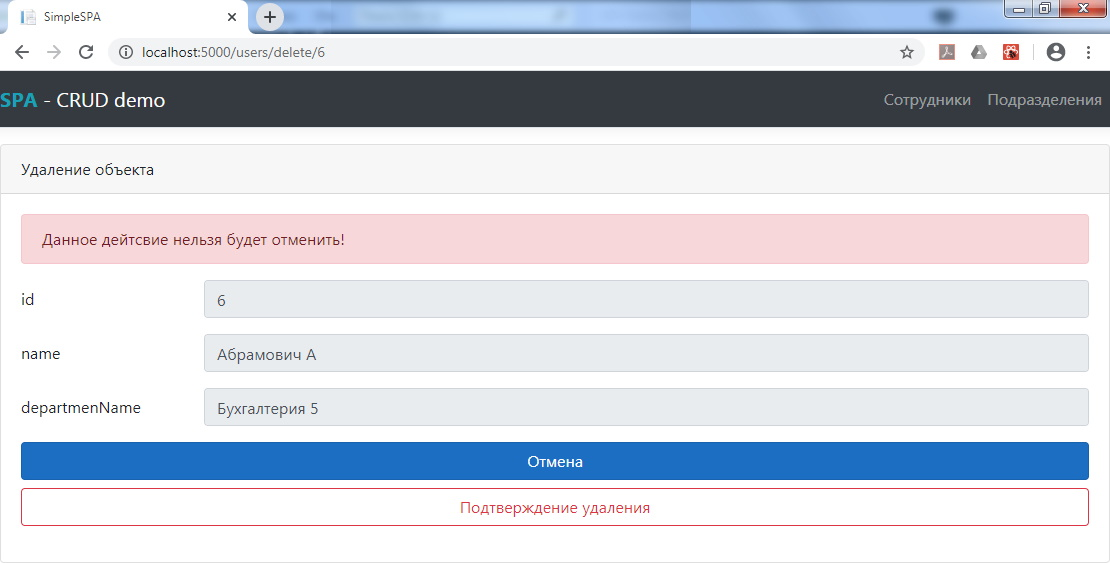
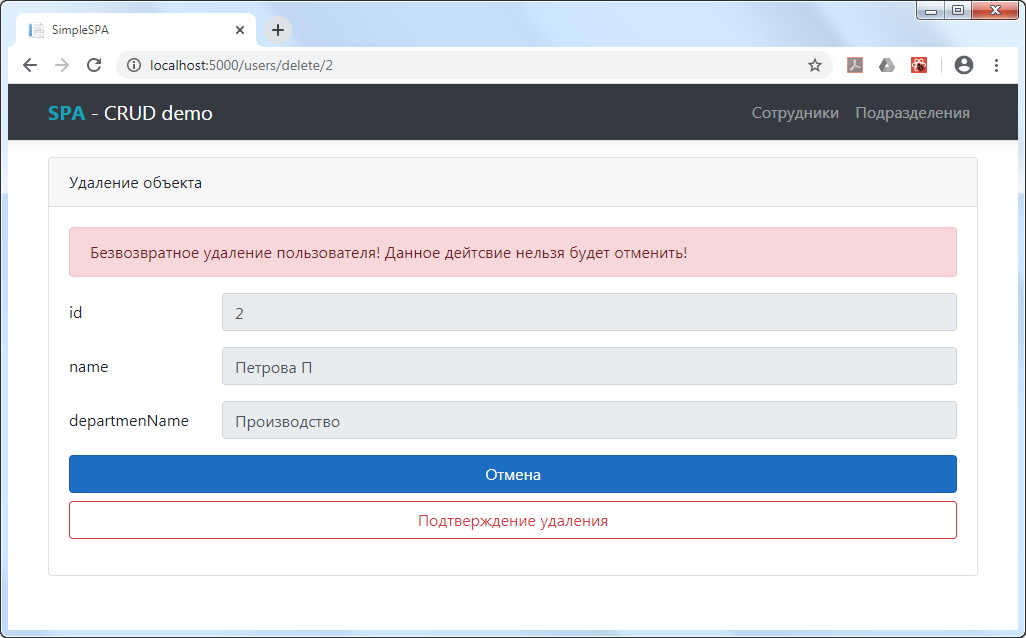
~

diff --git a/ClientApp/src/components/pages/DepatmentUsers.js b/ClientApp/src/components/pages/DepatmentUsers.js
@@ -1,0 +1,59 @@
+import React, { Component } from 'react';
+import { Home } from '../Home';
+import { NavLink } from 'react-router-dom'
+
+/** Пользователи в контексте департаментов */
+export class DepatmentUsers extends Component {
+    static displayName = DepatmentUsers.name;
+    apiName = 'usersbydepartments';
+
+    constructor(props) {
+        super(props);
+
+        this.state = { users: [], loading: true };
+    }
+
+    componentDidMount() {
+        this.viewLoad();
+    }
+
+    render() {
+        if (this.state.loading) {
+            return <p><em>Loading...</em></p>;
+        }
+
+        if (this.state.users.length === 0) {
+            return <footer className='blockquote-footer'>Сотрудников нет. Ни одному сотруднику не назначен департамент: #{Home.data.id} "{Home.data.name}"</footer>;
+        }
+
+        return (
+            <>
+                <p>В этом департаменте числятся сотрудники:</p>
+                <table className="table table-striped table-hover table-sm">
+                    <thead>
+                        <tr>
+                            <th scope="col">#</th>
+                            <th scope="col">Имя</th>
+                        </tr>
+                    </thead>
+                    <tbody>
+                        {this.state.users.map(function (user) {
+                            return (
+                                <tr key={user.id}>
+                                    <th scope="row">{user.id}</th>
+                                    <td><NavLink to={`/users/${Home.viewNameMethod}/${user.id}`}>{user.name}</NavLink></td>
+                                </tr>)
+                        })}
+                    </tbody>
+                </table>
+            </>
+        );
+    }
+
+
+    async viewLoad() {
+        const response = await fetch(`/api/${this.apiName}/${Home.id}`);
+        const users = await response.json();
+        this.setState({ users: users, loading: false });
+    }
+}

diff --git a/ClientApp/src/components/pages/Departments.js b/ClientApp/src/components/pages/Departments.js
@@ -2,6 +2,7 @@ import React from 'react';
 import { aPageList, aPageCard } from './aPage';
 import { NavLink } from 'react-router-dom'
 import { Home } from '../Home';
+import { DepatmentUsers } from './DepatmentUsers';
 
 /** Компонент для отображения списка департаментов */
 export class DepartmentsList extends aPageList {
@@ -64,6 +65,7 @@ export class DepartmentCard extends aPageCard {
                     </div>
                     {this.viewButtons()}
                 </form>
+                <DepatmentUsers />
             </>
         );
     }
@@ -81,7 +83,6 @@ export class DepartmentCard extends aPageCard {
                     </div>
                     {this.createButtons()}
                 </form>
-
             </>
         );
     }
@@ -95,7 +96,7 @@ export class DepartmentCard extends aPageCard {
         var department = Home.data;
         return (
             <>
-                <div className="alert alert-danger" role="alert">Данное дейтсвие нельзя будет отменить!</div>
+                <div className="alert alert-danger" role="alert">Безвозратное удаление департамента и связаных с ним пользователей! Данное дейтсвие нельзя будет отменить!</div>
                 <form className="mb-3">
                     {
                         Object.keys(department).map((keyName, i) => (
@@ -109,6 +110,7 @@ export class DepartmentCard extends aPageCard {
                     }
                     {this.deleteButtons()}
                 </form>
+                <DepatmentUsers/>
             </>
         );
     }

diff --git a/ClientApp/src/components/pages/Users.js b/ClientApp/src/components/pages/Users.js
@@ -107,7 +107,7 @@ export class UserCard extends aPageCard {
         delete user.departmentId;
         return (
             <>
-                <div className="alert alert-danger" role="alert">Данное дейтсвие нельзя будет отменить!</div>
+                <div className="alert alert-danger" role="alert">Безвозвратное удаление пользователя! Данное дейтсвие нельзя будет отменить!</div>
                 <form className="mb-3">
                     {
                         Object.keys(user).map((keyName, i) => (

diff --git a/Controllers/UsersByDepartmentsController.cs b/Controllers/UsersByDepartmentsController.cs
@@ -1,0 +1,109 @@
+using System;
+using System.Collections.Generic;
+using System.Linq;
+using System.Threading.Tasks;
+using Microsoft.AspNetCore.Http;
+using Microsoft.AspNetCore.Mvc;
+using Microsoft.EntityFrameworkCore;
+using SimpleSPA.Models;
+
+namespace SPADemoCRUD.Controllers
+{
+    [Route("api/[controller]")]
+    [ApiController]
+    public class UsersByDepartmentsController : ControllerBase
+    {
+        private readonly AppDataBaseContext _context;
+
+        public UsersByDepartmentsController(AppDataBaseContext context)
+        {
+            _context = context;
+        }
+
+        // GET: api/UsersByDepartments
+        [HttpGet]
+        public async Task<ActionResult<IEnumerable<UserModel>>> GetUsers()
+        {
+            return await _context.Users.ToListAsync();
+        }
+
+        // GET: api/UsersByDepartments/5
+        [HttpGet("{id}")]
+        public async Task<ActionResult<object>> GetUserModel(int id)
+        {
+            List<UserModel> userModel = await _context.Users.Where(x => x.DepartmentId == id).ToListAsync();
+
+            if (userModel == null)
+            {
+                return NotFound();
+            }
+
+            return userModel.Select(x => new { x.Id, x.Name }).ToList();
+        }
+
+        // PUT: api/UsersByDepartments/5
+        // To protect from overposting attacks, please enable the specific properties you want to bind to, for
+        // more details see https://aka.ms/RazorPagesCRUD.
+        [HttpPut("{id}")]
+        public async Task<IActionResult> PutUserModel(int id, UserModel userModel)
+        {
+            if (id != userModel.Id)
+            {
+                return BadRequest();
+            }
+
+            _context.Entry(userModel).State = EntityState.Modified;
+
+            try
+            {
+                await _context.SaveChangesAsync();
+            }
+            catch (DbUpdateConcurrencyException)
+            {
+                if (!UserModelExists(id))
+                {
+                    return NotFound();
+                }
+                else
+                {
+                    throw;
+                }
+            }
+
+            return NoContent();
+        }
+
+        // POST: api/UsersByDepartments
+        // To protect from overposting attacks, please enable the specific properties you want to bind to, for
+        // more details see https://aka.ms/RazorPagesCRUD.
+        [HttpPost]
+        public async Task<ActionResult<UserModel>> PostUserModel(UserModel userModel)
+        {
+            _context.Users.Add(userModel);
+            await _context.SaveChangesAsync();
+
+            return CreatedAtAction("GetUserModel", new { id = userModel.Id }, userModel);
+        }
+
+        // DELETE: api/UsersByDepartments/5
+        [HttpDelete("{id}")]
+        public async Task<ActionResult<UserModel>> DeleteUserModel(int id)
+        {
+            var userModel = await _context.Users.FindAsync(id);
+            if (userModel == null)
+            {
+                return NotFound();
+            }
+
+            _context.Users.Remove(userModel);
+            await _context.SaveChangesAsync();
+
+            return userModel;
+        }
+
+        private bool UserModelExists(int id)
+        {
+            return _context.Users.Any(e => e.Id == id);
+        }
+    }
+}
